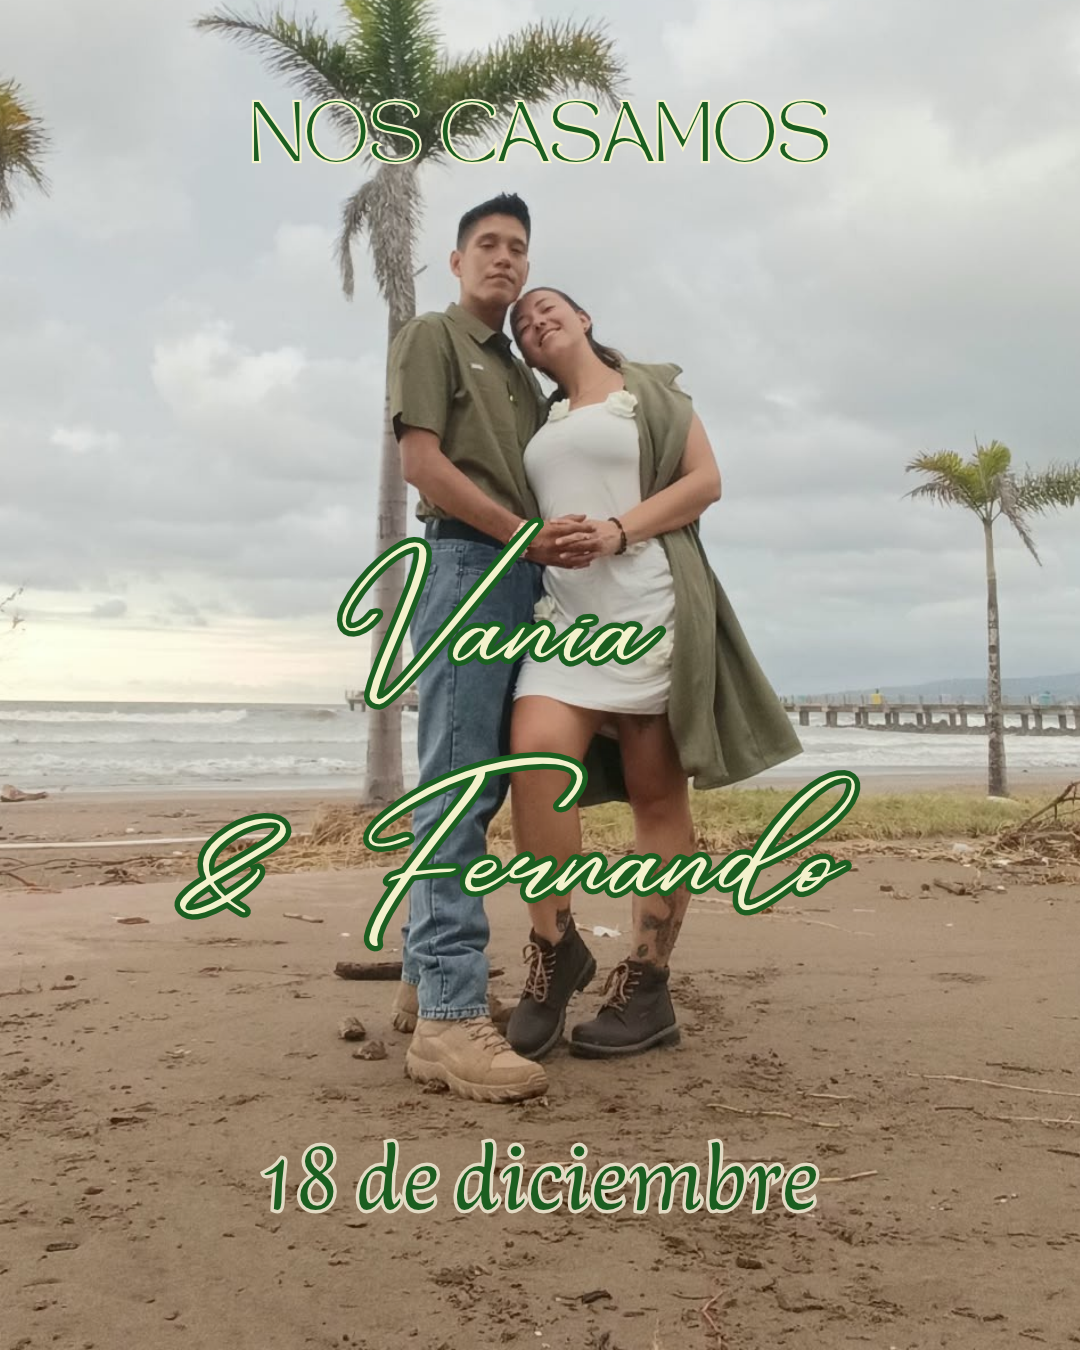
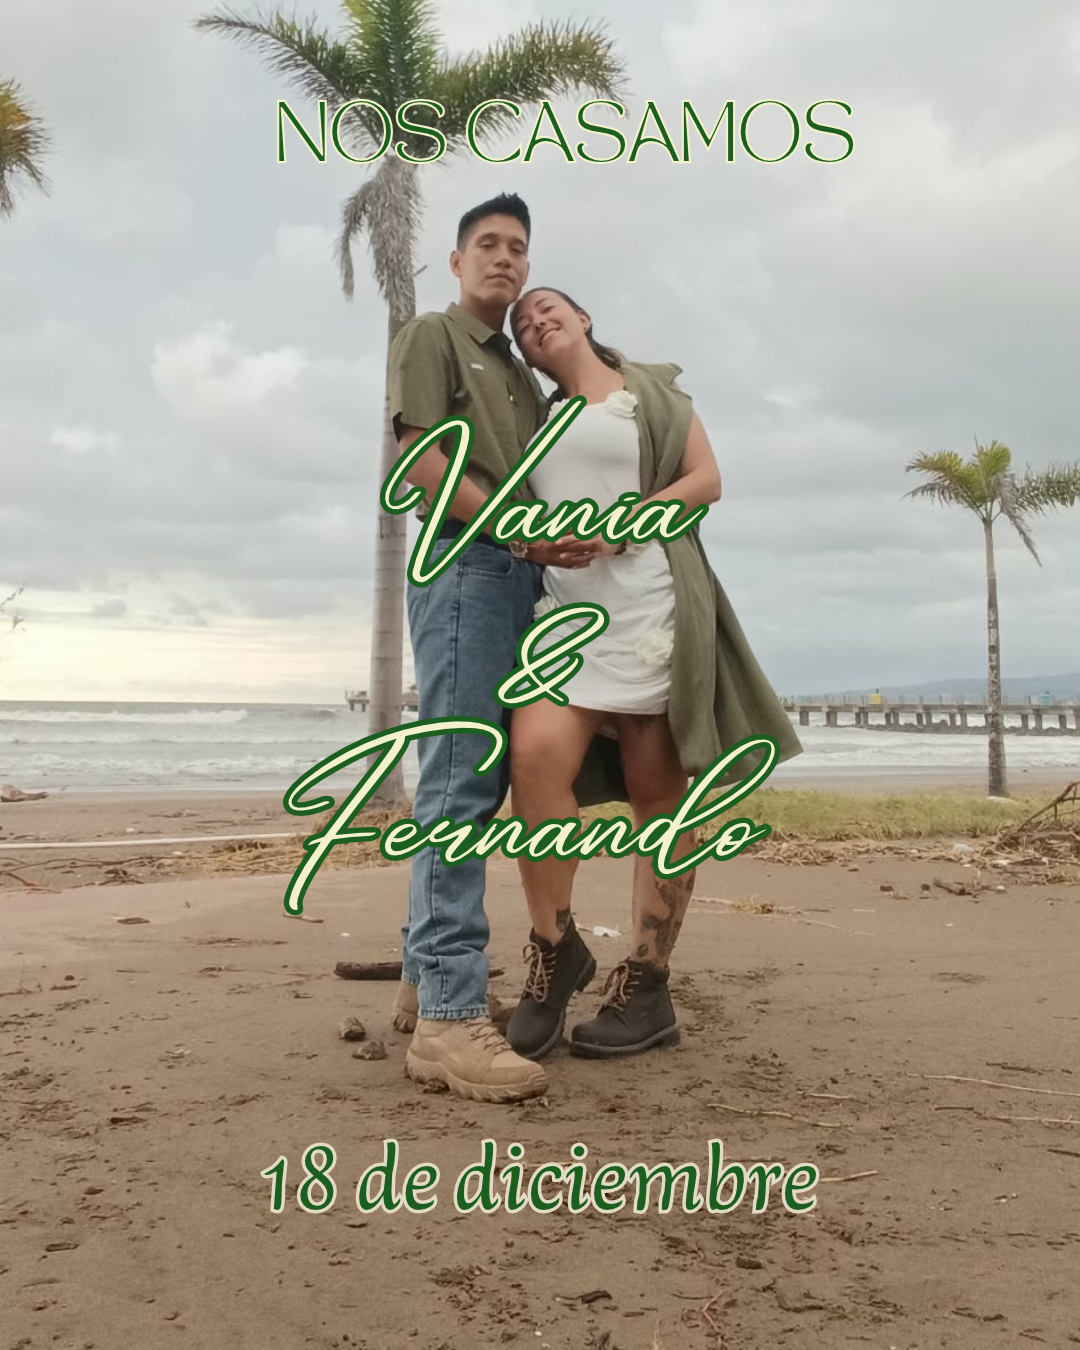
se agrego numero de Whats app

Changed region(s): [[0.1528, 0.3111, 0.7944, 0.7156], [0.2139, 0.0622, 0.7944, 0.1244], [0.5194, 0.28, 0.55, 0.3111]]

diff --git a/index.html b/index.html
@@ -648,7 +648,7 @@ CALENDARIO Y CONFIRMACIÓN
 
 
             <a 
-            href="https://wa.me/525524084019?text=Hola%20confirmo%20mi%20asistencia%20a%20su%20boda"
+            href="https://wa.me/523111011814?text=Hola%20confirmo%20mi%20asistencia%20a%20su%20boda"
             target="_blank"
             class="btn">
 
